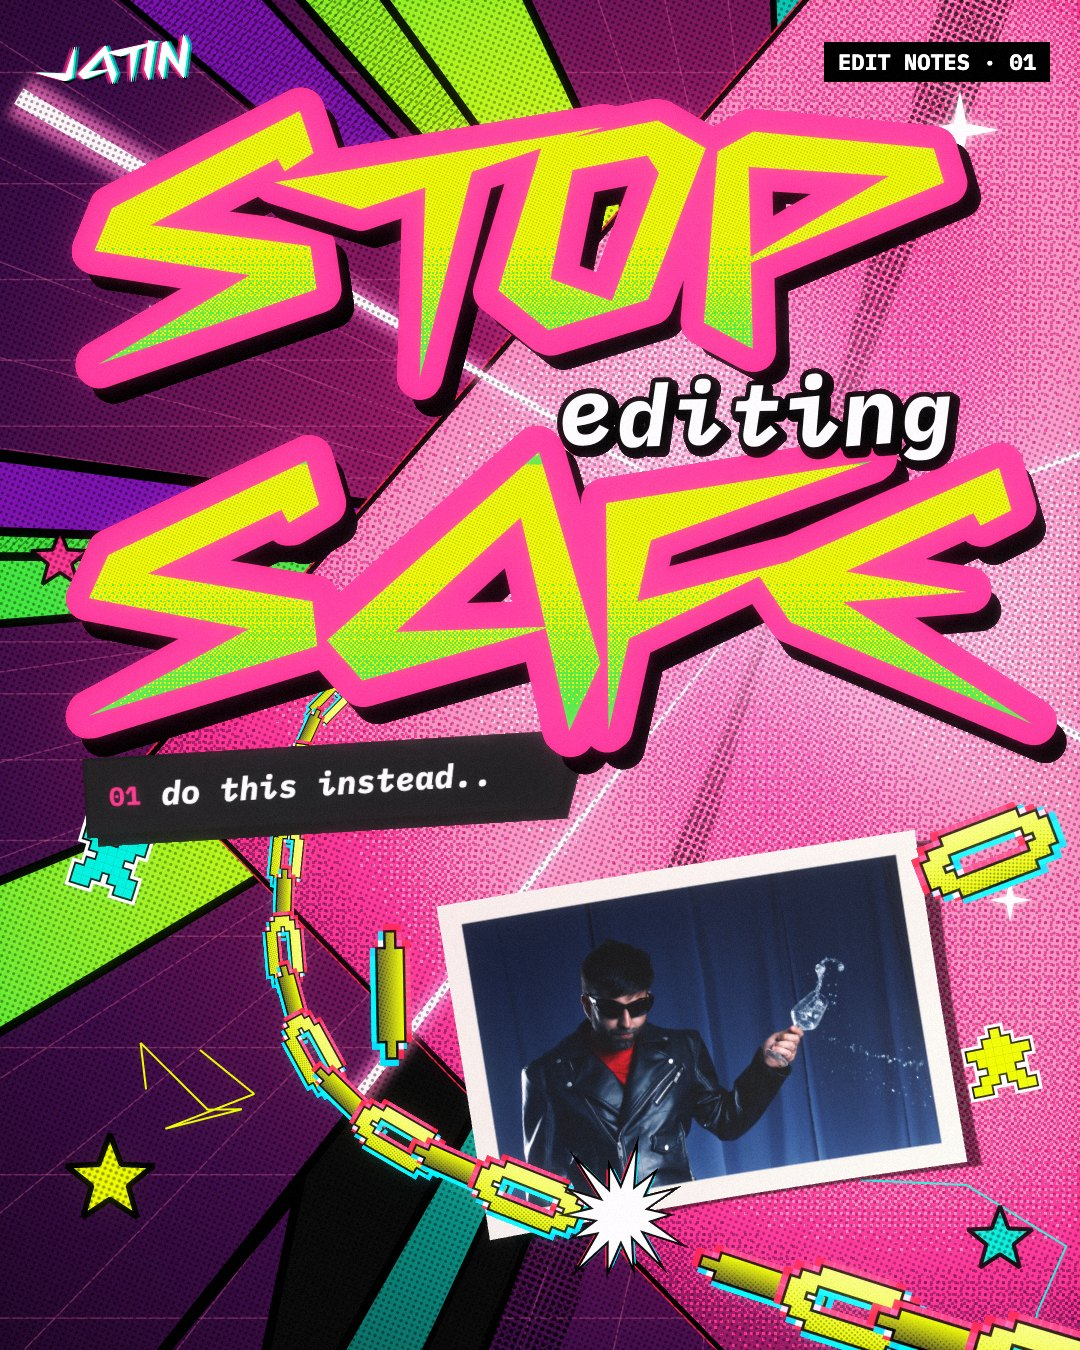
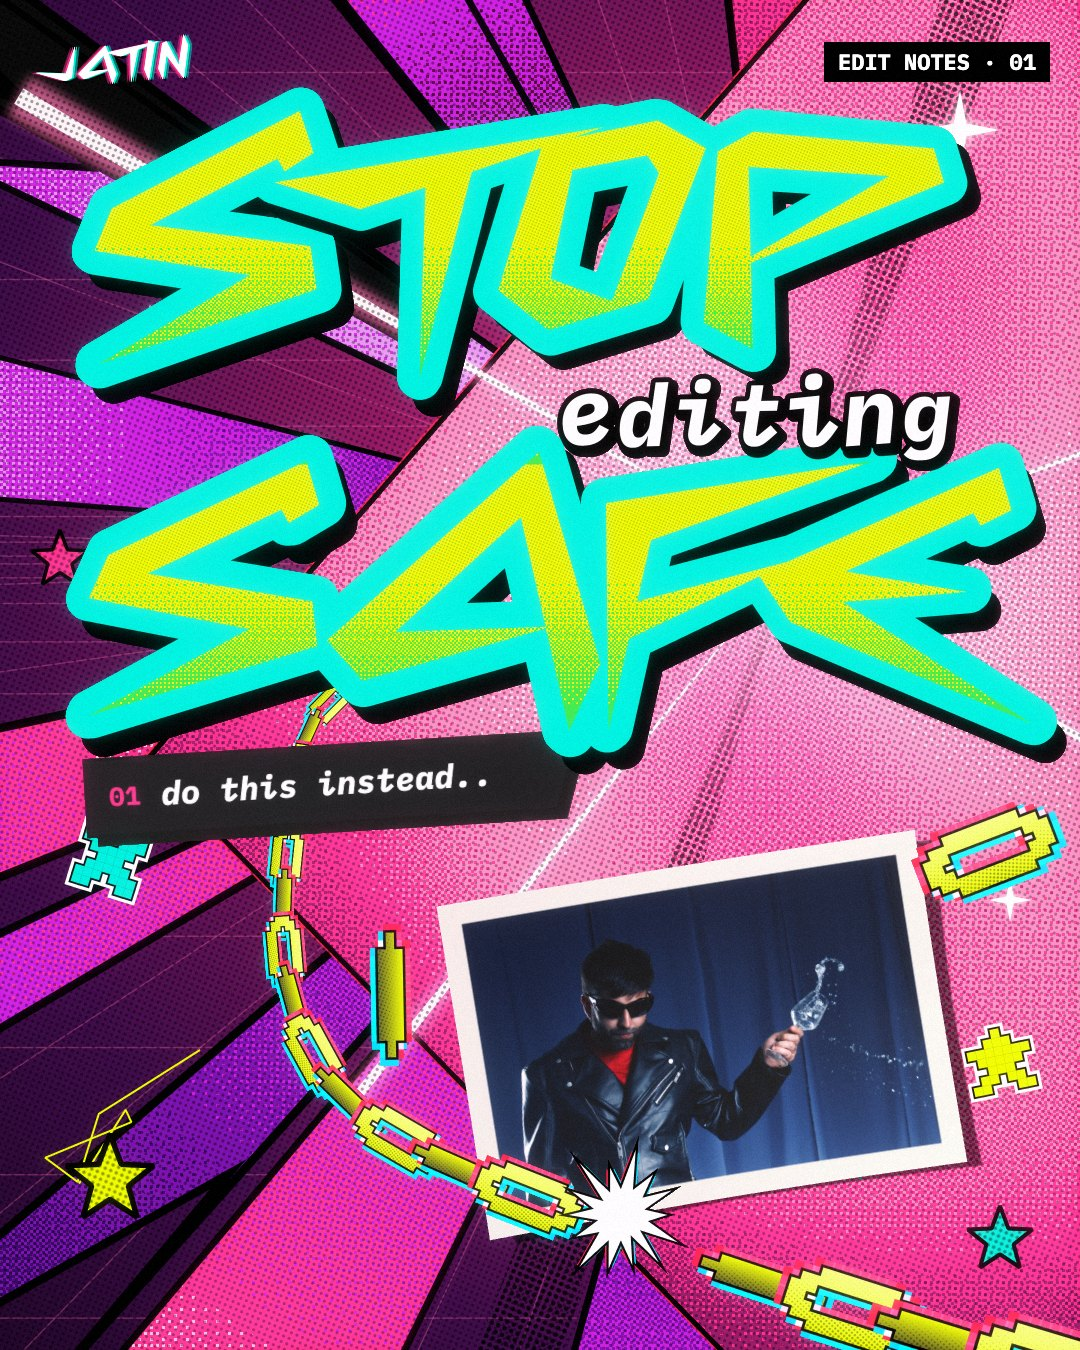
Content look round 4: dithered shards in each post's colour, contrasting type

diff --git a/docs/studio/studio.html b/docs/studio/studio.html
@@ -263,6 +263,13 @@ function ditherTri(w,h,tri,acc,vp,cell=3){
   }
   x.putImageData(im,0,0);return c;
 }
+const SHARD_FAM={
+  [PAL.pink]:[['#3a0a52','#9a1460','#ff2e88','#ff8cc0'],['#2a0640','#7a12b0','#c81ee0','#e48cf2'],['#14043c','#3a0a6a','#7a12b0','#c81ee0'],['#5a0a3a','#c81ee0','#ff2e88','#ffc2dc']],
+  [PAL.cyan]:[['#00262a','#006f73','#00f0d8','#7ffcef'],['#04122e','#0a4f7a','#0b8fb0','#00f0d8'],['#00201c','#0b6a60','#00b8a6','#7ffcef'],['#06183a','#0a4f7a','#00f0d8','#e9fffc']],
+  [PAL.acid]:[['#1a3d00','#39e639','#e8ff00','#f4ff8a'],['#062a0c','#147a2a','#39e639','#a8ff6a'],['#0a2a06','#2e6a10','#8ac600','#e8ff00'],['#1a3d00','#6fbf00','#e8ff00','#fdffe0']]};
+// the type takes the colours that fight the world: acid on pink, pink on cyan, pink on acid with a purple rule
+const TYPE_ON={[PAL.pink]:{fill:PAL.acid,outline:PAL.cyan,foot:PAL.green},[PAL.cyan]:{fill:PAL.pink,outline:PAL.acid,foot:PAL.mag},[PAL.acid]:{fill:PAL.pink,outline:PAL.purple,foot:PAL.mag}};
+const worldType=(acc,lines)=>paintType(PW*2,PH*2,lines.map(L=>L.style?L:{...L,fill:TYPE_ON[acc].fill,outline:TYPE_ON[acc].outline}),{foot:TYPE_ON[acc].foot});
 function siteWorld(acc,o){
   SEED=o.seed||7;const w=PW,h=PH,c=mk(w*SS2,h*SS2),x=c.getContext('2d');x.scale(SS2,SS2);
   const [vx,vy]=o.vp,A=hx(acc),R=Math.hypot(w,h);
@@ -276,19 +283,29 @@ function siteWorld(acc,o){
   for(let k=-14;k<=14;k++){const ang=Math.PI/2+k*.11;[1,-1].forEach(sg=>{x.beginPath();x.moveTo(vx,vy);x.lineTo(vx+Math.cos(ang)*R*2,vy+sg*Math.sin(ang)*R*2);x.stroke()})}
   for(let k=1;k<16;k++){const dy=Math.pow(k/16,2.2)*R;[1,-1].forEach(sg=>{x.beginPath();x.moveTo(0,vy+sg*dy);x.lineTo(w,vy+sg*dy);x.stroke()})}
   x.restore();
-  // shards: the site's makeShardSVG, sparse, centred on the light
-  const S=Math.max(w,h)/1000*1.15,N=o.shards||22;
-  const fills=['#e8ff00','#e8ff00','YG','YG','#39e639','#00f0d8','#00f0d8','CD','#7a12b0','#c81ee0','#0a0a0a','#0a0a0a','#0a0a0a'];
-  const stripe=patTile(8,4,t=>{t.fillStyle='rgba(0,0,0,.36)';t.fillRect(0,0,8,1.4)}),hatch=patTile(9,9,t=>{t.strokeStyle='rgba(0,0,0,.38)';t.lineWidth=1.6;t.beginPath();t.moveTo(-2,11);t.lineTo(11,-2);t.stroke()});
+  // shards: the site's makeShardSVG geometry, sparse, centred on the light. Round 4 (his note): every shard carries
+  // the site's Bayer dither, and every colour comes from the post's own family; the black wedges stay black.
+  const S=Math.max(w,h)/1000*1.15,N=o.shards||22,fam=SHARD_FAM[acc],sh=[];
   for(let i=0;i<N;i++){
     const ang=i/N*6.283+rr(-.25,.25),ang2=ang+rr(.09,.26),r1=rr(150,280)*S,r2=rr(520,900)*S,r3=rr(520,900)*S,midA=(ang+ang2)/2+rr(-.08,.08),rm=rr(300,520)*S;
     const pts=[[ang,r1],[ang,r2],[midA,rm*1.6],[ang2,r3],[ang2,r1]].map(([a,r])=>[vx+Math.cos(a)*r,vy+Math.sin(a)*r]);
-    const path=()=>{x.beginPath();pts.forEach((p,k)=>k?x.lineTo(p[0],p[1]):x.moveTo(p[0],p[1]));x.closePath()};
-    const f=pk(fills),sw=rr(3,6)*S,pr=rnd();path();
-    if(f==='YG'||f==='CD'){const a=pts[0],b=pts[2],gr=x.createLinearGradient(a[0],a[1],b[0],b[1]);gr.addColorStop(0,f==='YG'?'#e8ff00':'#00f0d8');gr.addColorStop(1,f==='YG'?'#39e639':'#0b6a60');x.fillStyle=gr}else x.fillStyle=f;
-    x.fill();
-    if(f!=='#0a0a0a'&&pr<.45){x.fillStyle=userPat(x,pr<.29?stripe:hatch);x.fill()}
-    x.lineWidth=sw;x.lineJoin='miter';x.strokeStyle='#000';x.stroke();
+    const black=rnd()<.24;sh.push({pts,r1,r2:Math.max(r2,r3,rm*1.6),ramp:black?null:pk(fam),flip:rnd()<.5,sw:rr(3,6)*S,lo:rr(0,.6)});
+  }
+  { const W2=w*SS2,H2=h*SS2,lay=mk(W2,H2),L=lay.getContext('2d'),im=L.createImageData(W2,H2),d=im.data,cs=3*SS2;
+    for(const q of sh){
+      const P=q.pts.map(p=>[p[0]*SS2,p[1]*SS2]),xs=P.map(p=>p[0]),ys=P.map(p=>p[1]);
+      const x0=Math.max(0,Math.floor(Math.min(...xs))),x1=Math.min(W2-1,Math.ceil(Math.max(...xs))),y0=Math.max(0,Math.floor(Math.min(...ys))),y1=Math.min(H2-1,Math.ceil(Math.max(...ys)));
+      const inside=poly(P),ramp=q.ramp&&q.ramp.map(hx),n=ramp?ramp.length-1:0;
+      for(let Y=y0;Y<=y1;Y++)for(let X=x0;X<=x1;X++){
+        if(!inside(X,Y))continue;const o=(Y*W2+X)*4;
+        if(!ramp){d[o]=d[o+1]=d[o+2]=10;d[o+3]=255;continue}
+        let t=clamp((Math.hypot(X/SS2-vx,Y/SS2-vy)-q.r1)/(q.r2-q.r1));if(q.flip)t=1-t;
+        const v=(q.lo+t*(1-q.lo))*n;let k=Math.floor(v);if(v-k>bay((X/cs)|0,(Y/cs)|0))k++;k=Math.min(k,n);
+        const c=ramp[k];d[o]=c[0];d[o+1]=c[1];d[o+2]=c[2];d[o+3]=255;
+      }
+    }
+    L.putImageData(im,0,0);x.save();x.setTransform(1,0,0,1,0,0);x.drawImage(lay,0,0);x.restore();
+    for(const q of sh){x.beginPath();q.pts.forEach((p,k)=>k?x.lineTo(p[0],p[1]):x.moveTo(p[0],p[1]));x.closePath();x.lineWidth=q.sw;x.lineJoin='miter';x.strokeStyle='#000';x.stroke()}
   }
   // the accent wedge, its red/cyan edge, then the field
   const T=o.wedge,tri=()=>{x.beginPath();x.moveTo(...T[0]);x.lineTo(...T[1]);x.lineTo(...T[2]);x.closePath()};
@@ -406,7 +423,7 @@ DRAFTS.p1=async()=>{ // STOP editing SAFE — pink world; the chain comes out of
   const brk=links.findIndex(l=>l.x>590&&l.y>1080),keep=links.filter((l,i)=>i<brk||i>brk+1);
   const [cc,cx]=frameCanvas();layChain(cx,keep,pal);burst(cx,links[brk].x+20,links[brk].y-10,62,5);SCN.add(framePlane(cc,.6));
   const [dc,dx]=frameCanvas();[[0,-210,-230,1.2],[1,310,-400,-.7]].forEach(([n,ox,oy,da])=>{const l=links[brk+n];chLink(dx,l.i,l.x+ox,l.y+oy,l.a+da,l.c*1.1,pal)});SCN.add(framePlane(dc,1.9));
-  const T=paintType(PW*2,PH*2,[
+  const T=worldType(acc,[
     {t:'STOP',size:.27,x:.48,y:.185,rot:-.07,seed:3},
     {t:'editing',style:'mono',size:.085,x:.7,y:.31,rot:-.06,seed:5},
     {t:'SAFE',size:.28,x:.5,y:.435,rot:.04,seed:9}
@@ -428,7 +445,7 @@ DRAFTS.p2=async()=>{ // FRAMES i almost DELETED — cyan world; the stack sits i
   const [cc,cx]=frameCanvas();layChain(cx,links,pal);SCN.add(framePlane(cc,1.1));
   const cur=voxels(CURSOR.map(r=>[...r].map(c=>c==='.'?0:c==='K'?1:2)),2,(i,j,k,w,h,d,v)=>v===1?PAL.cyan:(bay(i,j)>.5?'#15161d':'#0b0b10'),.17);
   const [ux,uz]=at(800,760,2.2);cur.position.set(ux,2.2,uz);cur.rotation.set(-1.15,0,-.35);SCN.add(cur);
-  const T=paintType(PW*2,PH*2,[
+  const T=worldType(acc,[
     {t:'FRAMES',size:.185,x:.52,y:.16,rot:-.05,seed:11},
     {t:'i almost',style:'mono',size:.085,x:.27,y:.75,rot:-.08,seed:2},
     {t:'DELETED',size:.19,x:.5,y:.87,rot:.05,seed:21}
@@ -442,8 +459,8 @@ DRAFTS.p3=async()=>{ // CUT IT in one NIGHT — acid world; the light comes out 
     streaks:[[-2.2,1000,10],[-1.2,1100,8],[-.3,900,9],[.5,700,6]],ink:[[-.75,.05],[-1.75,.04]],
     stars:[[1000,760,44,PAL.pink],[90,700,30,PAL.cyan],[960,1260,30,PAL.pink]],sparkles:[[110,820,30],[1010,640,22]],
     pixels:[[1010,1120,PAL.pink,1,.25],[70,1250,PAL.cyan,0,-.2]],scribbles:[[120,760,'#ff2e88'],[900,1120,'#00f0d8']]});
-  const T=paintType(PW*2,PH*2,[
-    {t:'CUT IT',size:.25,x:.49,y:.17,rot:-.06,seed:4,fill:PAL.acid},
+  const T=worldType(acc,[
+    {t:'CUT IT',size:.25,x:.49,y:.17,rot:-.06,seed:4},
     {t:'in one',style:'mono',size:.08,x:.76,y:.285,rot:-.05,seed:8},
     {t:'NIGHT',size:.25,x:.5,y:.385,rot:.04,seed:6}
   ]);

diff --git a/docs/concepts/2026-11-09-content-look/index.html b/docs/concepts/2026-11-09-content-look/index.html
@@ -40,9 +40,28 @@ figcaption b{color:var(--fg)}
 </style>
 
 <main class="wrap">
-  <p class="lbl">justjatin · content look · round 3 · posts · 9 nov 2026</p>
+  <p class="lbl">justjatin · content look · round 4 · posts · 10 nov 2026</p>
   <h1>Your language, at their production level</h1>
   <p class="lede">Only the design and craft of your four references were looked at, never the topic. Below: what makes them land, how each move maps onto your language, and ten first drafts (3 posts, 7 reel frames). The drafts are rendered in a real 3D lighting pass with your own photos, not drawn flat.</p>
+
+  <h2>Round 4 · one colour world per post</h2>
+  <p>Your note: <i>"the scattered shards in the background needs to have the same dither look we have and keep the same colour consistency as colour theme of the post itself and the text should be contrasting colour to that colour scheme."</i></p>
+  <ul class="fix">
+    <li><b>Shards dither now.</b> Every shard steps through a 4-colour ramp in the site's 4×4 Bayer cells, the same texture as the wedge and the chain. The flat fills, gradients and stripe prints are gone. Black shards stay black.</li>
+    <li><b>One family per post.</b> Pink: pinks, magentas and purples. Cyan: cyans, teals and deep blues. Acid: acids and greens. The multi-colour shard palette is gone.</li>
+    <li><b>The type fights the world.</b> Same treatment, contrasting colours. On pink: an acid fill with a green foot and a cyan rim. On cyan: a pink fill with a magenta foot and an acid rim. On acid: a pink fill with a magenta foot and a purple rim.</li>
+  </ul>
+  <div class="posts">
+    <figure><img src="img/p1.jpg" width="1080" height="1350" alt="Round 4 post: STOP editing SAFE in acid with a cyan rim over dithered pink, magenta and purple shards"><figcaption><b>STOP editing SAFE.</b> Pink world, acid and cyan type.</figcaption></figure>
+    <figure><img src="img/p2.jpg" width="1080" height="1350" alt="Round 4 post: FRAMES i almost DELETED in pink with an acid rim over dithered cyan and teal shards"><figcaption><b>FRAMES i almost DELETED.</b> Cyan world, pink and acid type.</figcaption></figure>
+    <figure><img src="img/p3.jpg" width="1080" height="1350" alt="Round 4 post: CUT IT in one NIGHT in pink with a purple rim over dithered acid and green shards"><figcaption><b>CUT IT in one NIGHT.</b> Acid world, pink and purple type.</figcaption></figure>
+  </div>
+  <p class="lbl" style="margin-top:28px">Round 3, for comparison</p>
+  <div class="ba">
+    <figure><img src="img/p1-round3.jpg" width="1080" height="1350" alt="Round 3 STOP editing SAFE with multi-colour flat shards" loading="lazy"><figcaption>R3: mixed flat shards.</figcaption></figure>
+    <figure><img src="img/p2-round3.jpg" width="1080" height="1350" alt="Round 3 FRAMES i almost DELETED with multi-colour flat shards" loading="lazy"><figcaption>R3</figcaption></figure>
+    <figure><img src="img/p3-round3.jpg" width="1080" height="1350" alt="Round 3 CUT IT in one NIGHT with multi-colour flat shards" loading="lazy"><figcaption>R3</figcaption></figure>
+  </div>
 
   <h2>Round 3 · posts, in your world</h2>
   <p>Your note: <i>"it doesnt feel like it captured my style. and i can see the elements of website design but that's [not] how i remember my website to look like … i like our chain design and our curser … i do prefer the font design in the current so keep that."</i> Plus two new references: bold flat graphic layers stacked behind one real object.</p>
@@ -54,11 +73,6 @@ figcaption b{color:var(--fg)}
     <li><b>The menu's furniture:</b> P5 stars, sparkles, pixel stickers, wire scribbles. The labels are the black menu plates, with an accent number.</li>
     <li><b>Kept:</b> the hand-sticker type exactly as it was, the cursor, the 3D prints and light. The CRT on the third post is now where the light comes from, like the ABOUT handycam.</li>
   </ul>
-  <div class="posts">
-    <figure><img src="img/p1.jpg" width="1080" height="1350" alt="Round 3 post: STOP editing SAFE over the site's pink shard world, the site's pixel chain coming out of the light and snapping over his print"><figcaption><b>STOP editing SAFE.</b> Pink world. The chain breaks over the print.</figcaption></figure>
-    <figure><img src="img/p2.jpg" width="1080" height="1350" alt="Round 3 post: FRAMES i almost DELETED over the cyan shard world, a stack of his prints in the light, a pink pixel chain looping round them, the voxel cursor"><figcaption><b>FRAMES i almost DELETED.</b> Cyan world. The stack sits in the light.</figcaption></figure>
-    <figure><img src="img/p3.jpg" width="1080" height="1350" alt="Round 3 post: CUT IT in one NIGHT over the acid shard world, the light coming out of a black voxel CRT, a pink chain wrapping it"><figcaption><b>CUT IT in one NIGHT.</b> Acid world. The CRT is the light.</figcaption></figure>
-  </div>
   <p class="lbl" style="margin-top:28px">Round 2 (electric, on a grid) and round 1, for comparison</p>
   <div class="ba">
     <figure><img src="img/p1-round2.jpg" width="1080" height="1350" alt="Round 2 STOP editing SAFE on a neon grid floor" loading="lazy"><figcaption>R2: props on a grid.</figcaption></figure>

diff --git a/docs/concepts/2026-11-09-content-look/README.md b/docs/concepts/2026-11-09-content-look/README.md
@@ -91,3 +91,24 @@ flung link landed on his head; the CRT dominated (scaled .82).
 **Open:** the CRT is a flat black box from above (could become the site's beige computer); the reels.
 
 **His verdict (2026-11-10):** "alot better". The site-world ground is the direction.
+
+## Round 4 — 2026-11-10 · one colour world per post
+
+**His notes, in his words:** "the scattered shards in the background needs to have the same dither look we have and
+keep the same colour consistency as colour theme of the post itself and the text should be contrasting colour to that
+colour scheme."
+
+**Built:**
+- **Shards:** each shard is filled with a 4-step ramp in 4×4 Bayer cells (3px), running along its length from the
+  light outward. The direction and starting step are per shard. About a quarter of them stay black.
+- **Colour:** the families live in `SHARD_FAM`, one per accent: pink/magenta/purple, cyan/teal/deep blue, acid/green.
+  The stripe/hatch prints and flat gradients are gone.
+- **Type:** `TYPE_ON` gives each world its contrasting type colours. The treatment is unchanged.
+
+| World | Fill | Foot | Rim |
+|---|---|---|---|
+| Pink | acid | green | cyan |
+| Cyan | pink | magenta | acid |
+| Acid | pink | magenta | purple |
+
+**Stills:** round 3 is `img/p*-round3.jpg`; round 4 is `img/p*.jpg`.

diff --git a/docs/process/JOURNAL.md b/docs/process/JOURNAL.md
@@ -10,6 +10,14 @@ by piece and marked "Oct 2026".
 
 ---
 
+
+## 2026-11-10 — one colour world per post
+
+He asked for the background shards to carry the same dither as everything else, to stay inside each post's own colour
+scheme, and for the text to contrast it. The shards had been the site's mixed palette, with flat fills and stripe
+prints. Now each shard steps through a ramp of the post's own family in Bayer cells, so a pink post is all pinks,
+magentas and purples. The headline keeps its treatment but takes the colours that fight the world: acid on pink, pink
+on cyan, pink with a purple rim on acid. Each post now reads as one colour world with type that punches out of it.
 ## 2026-11-09 (late night) — the posts move into his world
 
 The electric posts were cleaner, but he said they didn't capture his style: "i can see the elements of website design

diff --git a/docs/HANDOFF.md b/docs/HANDOFF.md
@@ -3,6 +3,12 @@
 Newest on top. Each entry: date · did · in flight · next · watch out.
 
 ---
+## 2026-11-10 — Content look round 4 (one colour world per post)
+- **His note:** dither the shards, keep them in the post's colour scheme, make the text contrast it.
+- **Did:** `SHARD_FAM` dithered shards, `TYPE_ON` contrasting type colours; doc v4 (same URL), round 3 stills kept.
+- **Next:** his notes; the CRT → his beige computer is still open; then the reels.
+
+---
 ## 2026-11-09 — Content look round 3 (posts in his world)
 - **His note:** the posts "doesnt feel like it captured my style", with the site's elements but not its look. Keep the
   chain, the cursor and the current type. Two new references (flat bold layers behind one real object).
